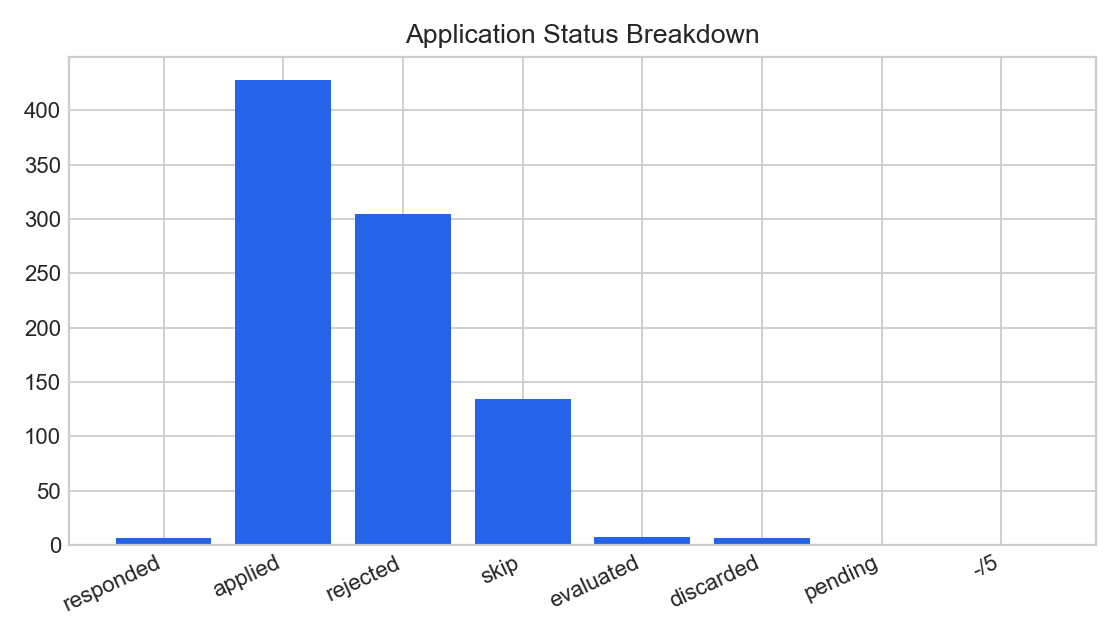
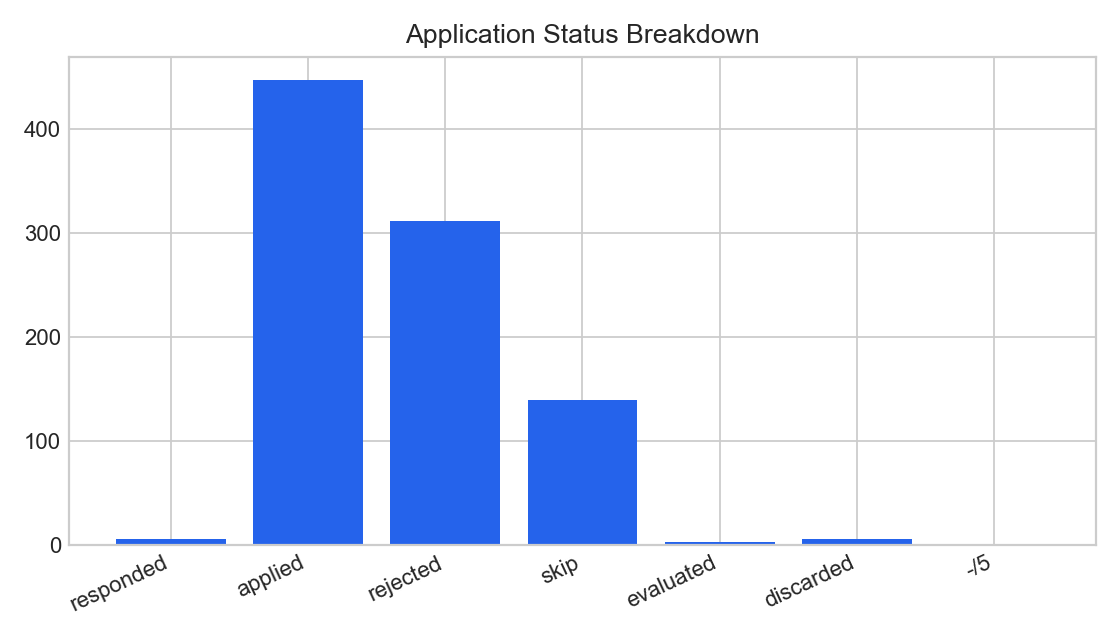
Job search log 2026-11-03 to 11-05: 19 new evaluations (#748-766), 7 status syncs

diff --git a/data/daily_summary.md b/data/daily_summary.md
@@ -1,6 +1,6 @@
 # Daily Job Search Summary
 
-_Last refreshed: 2026-11-02T23:57:22-08:00_
+_Last refreshed: 2026-11-05T15:16:05-08:00_
 
 ## Positioning
 
@@ -10,37 +10,36 @@ _Last refreshed: 2026-11-02T23:57:22-08:00_
 
 ## Snapshot
 
-- Tracked roles: 1039
-- Active roles: 441
+- Tracked roles: 1064
+- Active roles: 456
 - Response rate: 0.8%
 - LinkedIn outreach sent: 28
 - Pending pipeline items: 155
 - Recommended pipeline items: 36
-- Average evaluated score: 6.88
+- Average evaluated score: 6.78
 
 ## Status Breakdown
 
 - -/5: 1
-- applied: 428
+- applied: 447
 - discarded: 6
-- evaluated: 7
-- pending: 1
-- rejected: 305
+- evaluated: 3
+- rejected: 311
 - responded: 6
-- skip: 134
+- skip: 139
 
 ## Recent Activity
 
-- 2026-11-02: Shopify | Apprentice Product Manager - Spring 2027 | applied
-- 2026-11-02: Pinterest | Master's University Grad Data Scientist (USA) | applied
-- 2026-11-02: Astera Labs | Applied AI NCG (Non Silicon) | applied
-- 2026-11-02: Astera Labs | Data Analyst NCG | applied
-- 2026-11-02: Astera Labs | Sales Operation Analyst NCG | applied
-- 2026-11-02: Recidiviz | Data Analyst (Entry-Level) | applied
-- 2026-11-02: Salesforce | AI Labs Rotational Fellowship, Emerging Talent | applied
-- 2026-11-02: Deploy | Product Analyst - Sports, Media, & Marketing | applied
-- 2026-11-02: Deploy | Data Operations Analyst | applied
-- 2026-11-02: T-Mobile | Associate Product Manager - App | applied
+- 2026-11-05: Perpay | Junior Strategic Analyst | applied
+- 2026-11-05: Vivid Seats | Data Analyst II | applied
+- 2026-11-05: Splash | Operations Data Analyst | applied
+- 2026-11-05: Fetch | Business Intelligence Analyst | applied
+- 2026-11-05: CentralReach | Technical Product Analyst | applied
+- 2026-11-05: StubHub | Strategy & Operations Associate - Global Customer Success | applied
+- 2026-11-05: iSpot | Associate Data Analyst | applied
+- 2026-11-05: iSpot | Associate Data Analyst (Client Data Science) | applied
+- 2026-11-05: Perpay | Super Day - Business Operations Associate (Rotational Program) | skip
+- 2026-11-05: Fetch (pet insurance) | Business Intelligence Analyst | applied
 
 ## Recommended Opportunity Queue
 
@@ -62,13 +61,13 @@ _Last refreshed: 2026-11-02T23:57:22-08:00_
 
 ## Needs Attention
 
-- Microsoft | Applied Scientist: Microsoft AI Development Acceleration Program | 235 days with no response
-- Apple | AIML - Machine Learning Research | 224 days with no response
-- Amazon | Data Engineer II | 222 days with no response
-- Amazon | 软件开发工程师, (New graduate or Entry-level Engineer, 0-2 Years) | 222 days with no response
-- Esri | Product Engineer II - ArcGIS Enterprise Sharing API | 222 days with no response
-- Uber | Software Engineer II - Machine Learning | 220 days with no response
-- GumGum | Data Scientist I | 218 days with no response
-- IEHP | Data Scientist I | 210 days with no response
-- Apple | Data Scientist | 209 days with no response
-- Nvidia | Deep Learning Software Engineer | 208 days with no response
+- Microsoft | Applied Scientist: Microsoft AI Development Acceleration Program | 238 days with no response
+- Apple | AIML - Machine Learning Research | 227 days with no response
+- Amazon | Data Engineer II | 225 days with no response
+- Amazon | 软件开发工程师, (New graduate or Entry-level Engineer, 0-2 Years) | 225 days with no response
+- Esri | Product Engineer II - ArcGIS Enterprise Sharing API | 225 days with no response
+- Uber | Software Engineer II - Machine Learning | 223 days with no response
+- GumGum | Data Scientist I | 221 days with no response
+- IEHP | Data Scientist I | 213 days with no response
+- Apple | Data Scientist | 212 days with no response
+- Nvidia | Deep Learning Software Engineer | 211 days with no response
